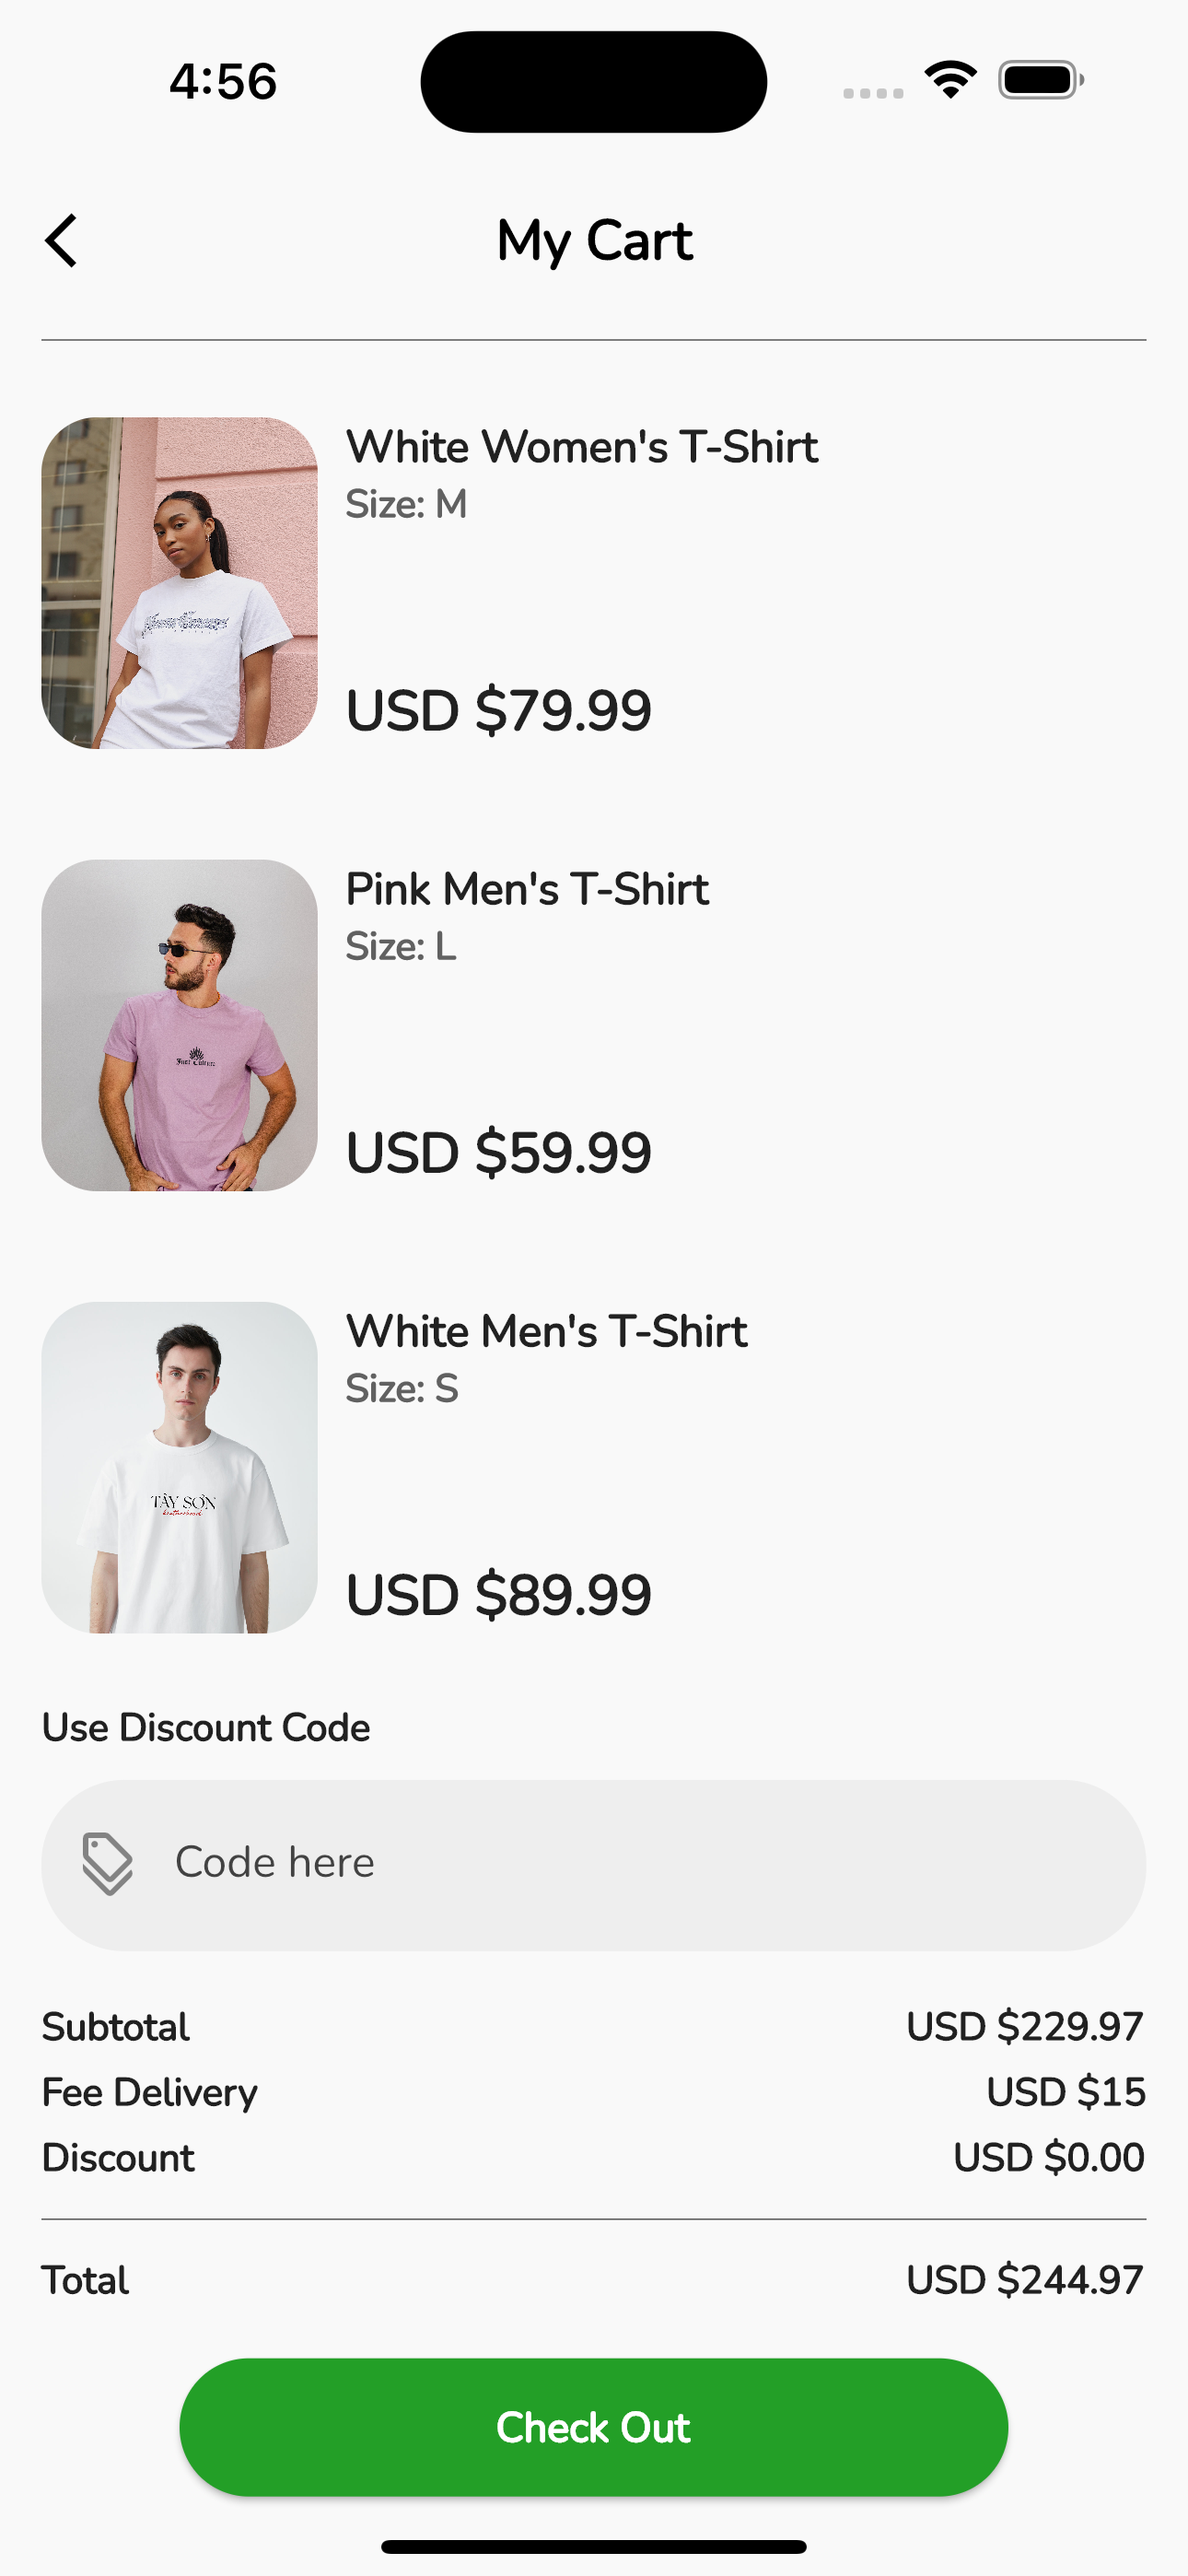
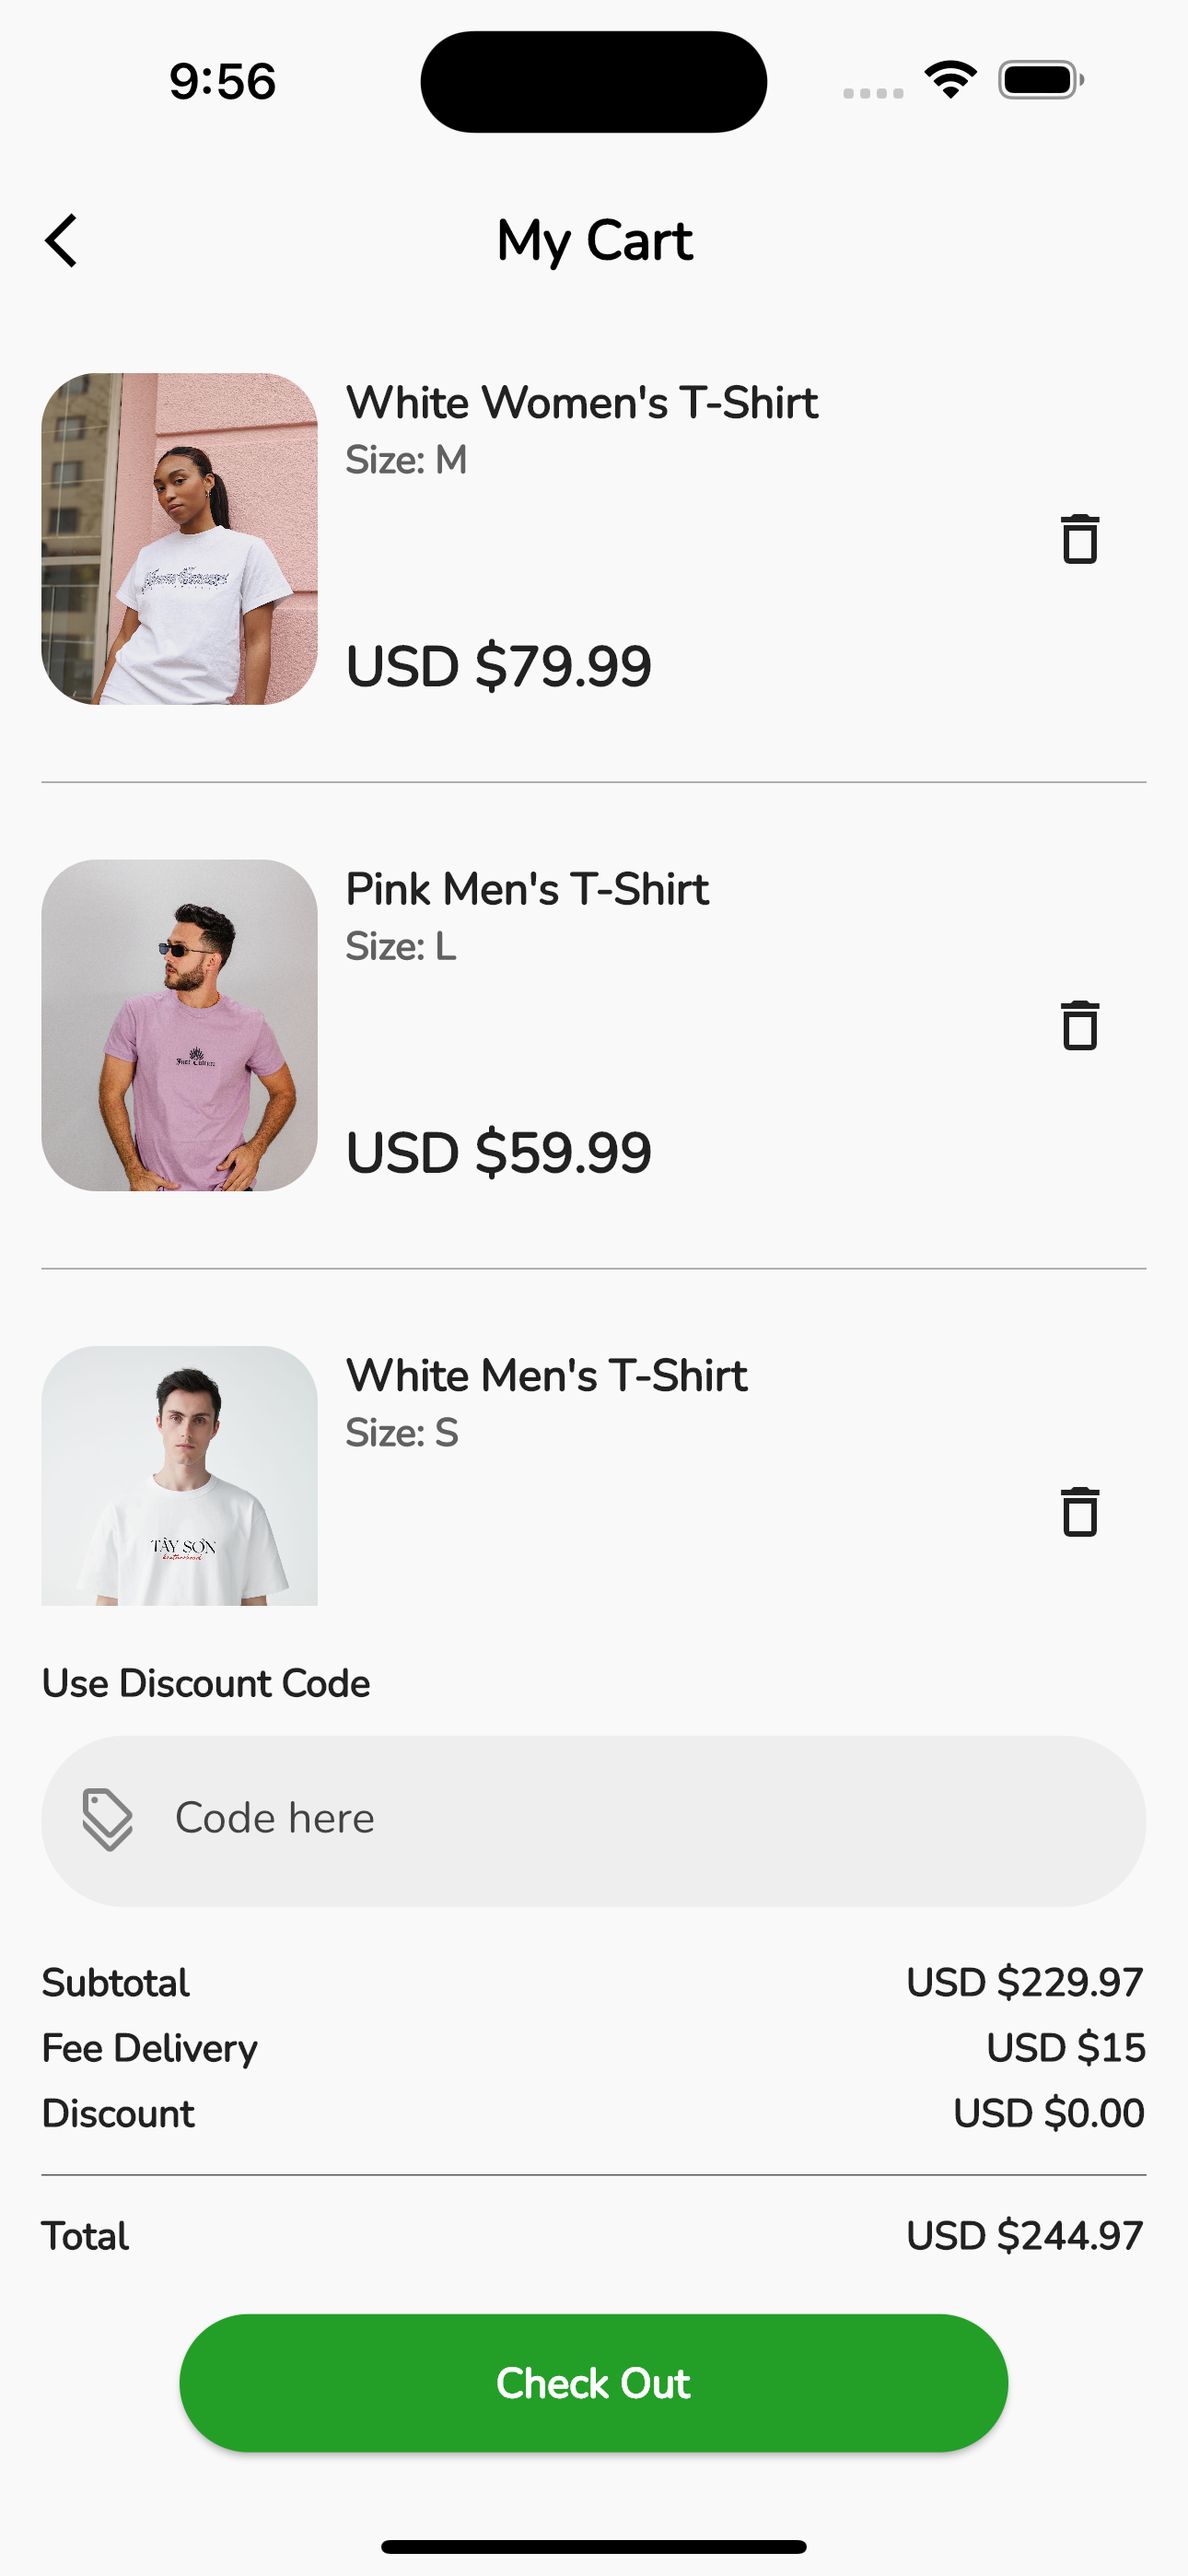
Added remove from cart function

diff --git a/lib/widgets/cart/cart_list.dart b/lib/widgets/cart/cart_list.dart
@@ -15,68 +15,91 @@ class CartList extends StatelessWidget {
         shrinkWrap: true,
         itemCount: cartProvider.cartItems.length,
         itemBuilder: (BuildContext ctx, index) {
-          return Container(
-            margin: const EdgeInsets.symmetric(vertical: 20),
-            child: Row(children: [
-              SizedBox(
-                width: 100,
-                height: 120,
-                child: Container(
-                  decoration: BoxDecoration(
-                      borderRadius: BorderRadius.circular(20),
-                      image: DecorationImage(
-                        fit: BoxFit.fitWidth,
-                        alignment: FractionalOffset.topCenter,
-                        image: AssetImage(
-                          productsList[cartProvider.cartItems[index].id!]
-                              .image!,
-                        ),
-                      )),
-                ),
-              ),
+          return Column(
+            children: [
               Container(
-                margin: const EdgeInsets.symmetric(horizontal: 10),
-                height: 120,
-                child: Column(
-                  mainAxisAlignment: MainAxisAlignment.spaceBetween,
-                  crossAxisAlignment: CrossAxisAlignment.start,
-                  children: [
-                    Column(
+                margin: const EdgeInsets.symmetric(vertical: 20),
+                child: Row(children: [
+                  SizedBox(
+                    width: 100,
+                    height: 120,
+                    child: Container(
+                      decoration: BoxDecoration(
+                          borderRadius: BorderRadius.circular(20),
+                          image: DecorationImage(
+                            fit: BoxFit.fitWidth,
+                            alignment: FractionalOffset.topCenter,
+                            image: AssetImage(
+                              productsList[cartProvider.cartItems[index].id!]
+                                  .image!,
+                            ),
+                          )),
+                    ),
+                  ),
+                  Container(
+                    margin: const EdgeInsets.symmetric(horizontal: 10),
+                    height: 120,
+                    child: Column(
+                      mainAxisAlignment: MainAxisAlignment.spaceBetween,
                       crossAxisAlignment: CrossAxisAlignment.start,
                       children: [
+                        Column(
+                          crossAxisAlignment: CrossAxisAlignment.start,
+                          children: [
+                            Row(
+                              children: [
+                                Text(
+                                  productsList[
+                                          cartProvider.cartItems[index].id!]
+                                      .name!,
+                                  style: const TextStyle(
+                                      fontSize: 16,
+                                      fontWeight: FontWeight.bold),
+                                ),
+                              ],
+                            ),
+                            Row(children: [
+                              Text(
+                                'Size: ${cartProvider.cartItems[index].size.toString()}',
+                                style: TextStyle(
+                                    color: ColorConstants.darkGrey,
+                                    fontWeight: FontWeight.bold),
+                              ),
+                            ]),
+                          ],
+                        ),
                         Row(
                           children: [
                             Text(
-                              productsList[cartProvider.cartItems[index].id!]
-                                  .name!,
+                              'USD \$${cartProvider.cartItems[index].price!.toString()}',
                               style: const TextStyle(
-                                  fontSize: 16, fontWeight: FontWeight.bold),
+                                  fontSize: 20, fontWeight: FontWeight.bold),
                             ),
                           ],
                         ),
-                        Row(children: [
-                          Text(
-                            'Size: ${cartProvider.cartItems[index].size.toString()}',
-                            style: TextStyle(
-                                color: ColorConstants.darkGrey,
-                                fontWeight: FontWeight.bold),
-                          ),
-                        ]),
                       ],
                     ),
-                    Row(
+                  ),
+                  Expanded(
+                    child: Column(
+                      crossAxisAlignment: CrossAxisAlignment.end,
                       children: [
-                        Text(
-                          'USD \$${cartProvider.cartItems[index].price!.toString()}',
-                          style: const TextStyle(
-                              fontSize: 20, fontWeight: FontWeight.bold),
-                        ),
+                        IconButton(
+                            onPressed: () {
+                              cartProvider.removeFromCart(
+                                  cartProvider.cartItems[index]);
+                            },
+                            icon: const Icon(Icons.delete_outline)),
                       ],
                     ),
-                  ],
-                ),
+                  ),
+                ]),
               ),
-            ]),
+              const Divider(
+                thickness: 0.2,
+                color: Colors.black,
+              )
+            ],
           );
         });
   }

diff --git a/lib/pages/cart.dart b/lib/pages/cart.dart
@@ -20,9 +20,6 @@ class Cart extends StatelessWidget {
       body: Container(
         margin: const EdgeInsets.symmetric(horizontal: 15),
         child: Column(children: [
-          const Divider(
-            color: Colors.black,
-          ),
           SizedBox(
             height: MediaQuery.of(context).size.height * 0.5,
             child: const CartList(),

diff --git a/lib/services/providers/cart_provider.dart b/lib/services/providers/cart_provider.dart
@@ -1,7 +1,7 @@
 import '../../services/models/product.dart';
 import 'package:flutter/material.dart';
 
-class CartProvider with ChangeNotifier {
+class CartProvider extends ChangeNotifier {
   List<Product> cartItems = [];
 
   cartSubTotal() {

diff --git a/README.md b/README.md
@@ -9,7 +9,7 @@
 
 ## Features
 ### Homepage:
- * Searchbar
+ * Searchbar //in development
  * Go to cart button
  * Imagecarousel with latest products 
  * Popular brands picker //in development
@@ -22,6 +22,7 @@
 
 ### Cart page
  * List with products added to the cart
+ * Remove from cart function
  * Use discound code //in development
  * Cart summary with subtotal, fee delivery, discount and total price
  * Check out button
